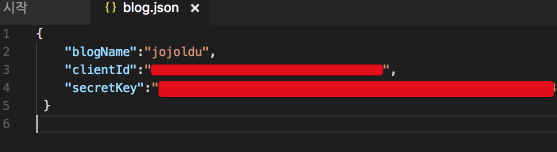
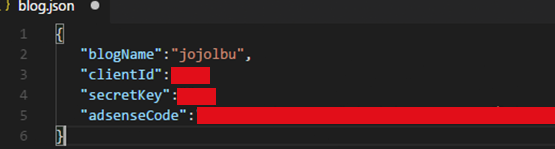
README 설명 추가

diff --git a/README.md b/README.md
@@ -30,9 +30,11 @@ npm install -g markdown-tistory
 
 먼저 [티스토리 API](http://www.tistory.com/guide/api/oauth)로 이동하여 임시 클라이언트를 등록합니다.
 
+(주의 : 서비스 URL 과 callback 경로에는 꼭 스크린샷처럼 http://localhost:5000/callback 으로 적어주세요.)
+
 ![티스토리 API](./images/API등록.png)
 
-등록후 발급되는 client id와 secret key를 사용할 예정이니 메모장에 복사하시고
+등록 후 발급되는 client id와 secret key를 사용할 예정이니 메모장에 복사하시고
 
 ![티스토리 클라이언트](./images/티스토리클라이언트.png)
 
@@ -51,19 +53,21 @@ npm install -g markdown-tistory
 
 PC에 설치된 에디터의 종류에 따라 입력하시면 됩니다.  
 
-Ex)
+예제)
 
 ```
-markdown-tistory init vim
+markdown-tistory init code
 ```
 
-오픈된 파일에는 다음과 같은 값을 등록하시면 됩니다.
+오픈 된 파일에는 다음과 같은 값을 등록하시면 됩니다.
+(스크린샷은 Visual Studio Code 에디터 입니다.)
 
 ![blog_json](./images/blog_json.png)
 
-* blog name : 본인의 블로그 주소 (ex: jojoldu.tistory.com의 jojoldu를 입력하시면 됩니다.)
-* client id : API에 등록한 client id
-* secret key : API에 등록한 secret key
+* blogName : 본인의 블로그 주소 (ex: jojoldu.tistory.com의 jojoldu를 입력하시면 됩니다.)
+* clientId : API에 등록한 client id
+* secretKey : API에 등록한 secret key
+* adsenseCode : 구글광고 코드
 
 해당 파일 저장후, AccessToken을 발급 받겠습니다.  
 아래의 명령어를 입력합니다.
@@ -115,8 +119,10 @@ markdown-tistory write ./README.md
 
 이미 만들어진 blog.json 정보를 수정하고 싶다면 아래의 명령어를 사용하시면 됩니다.
 
+('blog.json' 은 유저 홈 디렉토리에 생성이 됩니다.) 
+
 ```
-markdown-tistory show 에디터종류
+markdown-tistory show 에디터
 ```
 
 생성된 blog.json이 지정한 에디터에 오픈됩니다.
@@ -127,11 +133,13 @@ markdown-tistory show 에디터종류
 먼저 아래 명령어를 입력합니다.
 
 ```
-markdown-tistory ad 에디터명
+markdown-tistory ad 에디터
 ```
 
 ```ad.txt```파일이 하나 생성되어 에디터로 표시됩니다.  
 아래처럼 본인의 애드센스 코드를 입력합니다.
+
+('ad.txt' 은 유저 홈 디렉토리에 생성이 됩니다.)
 
 ![ad_txt](./images/ad_txt.png)
 
